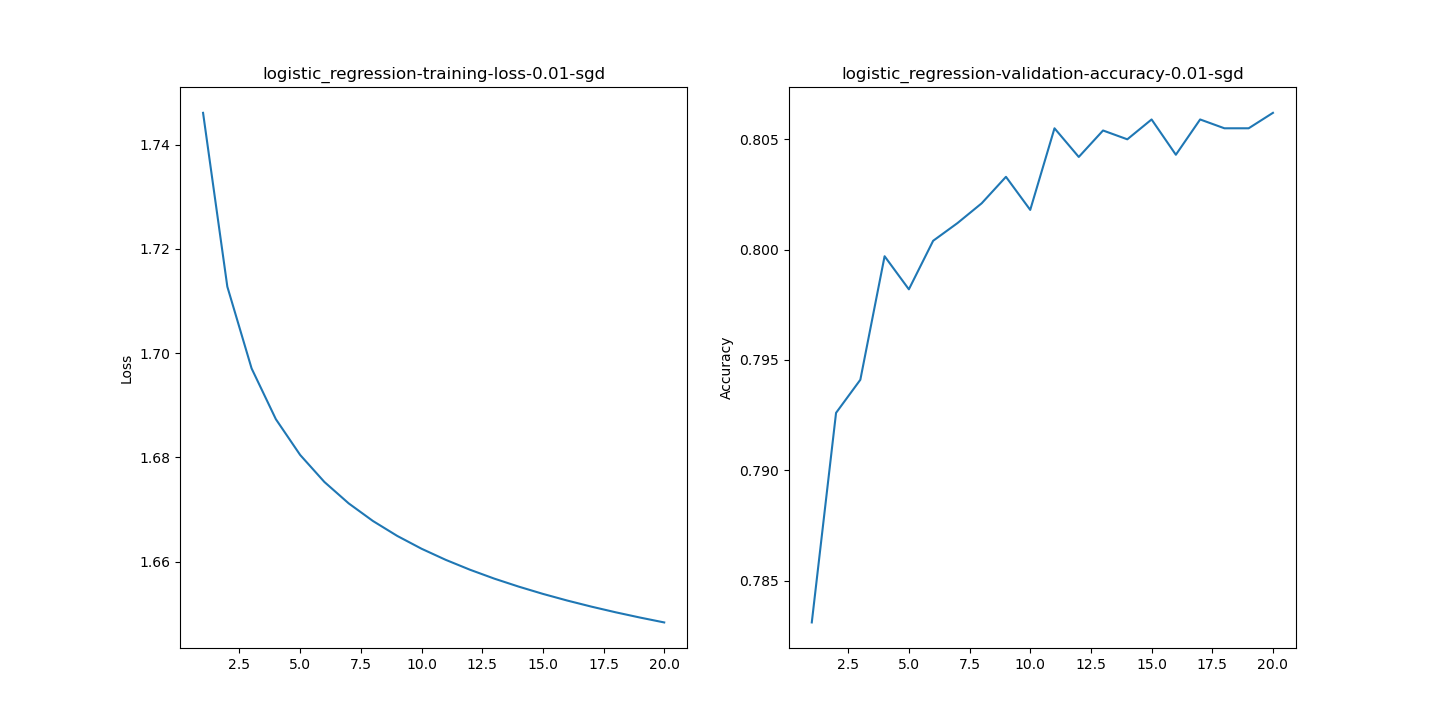
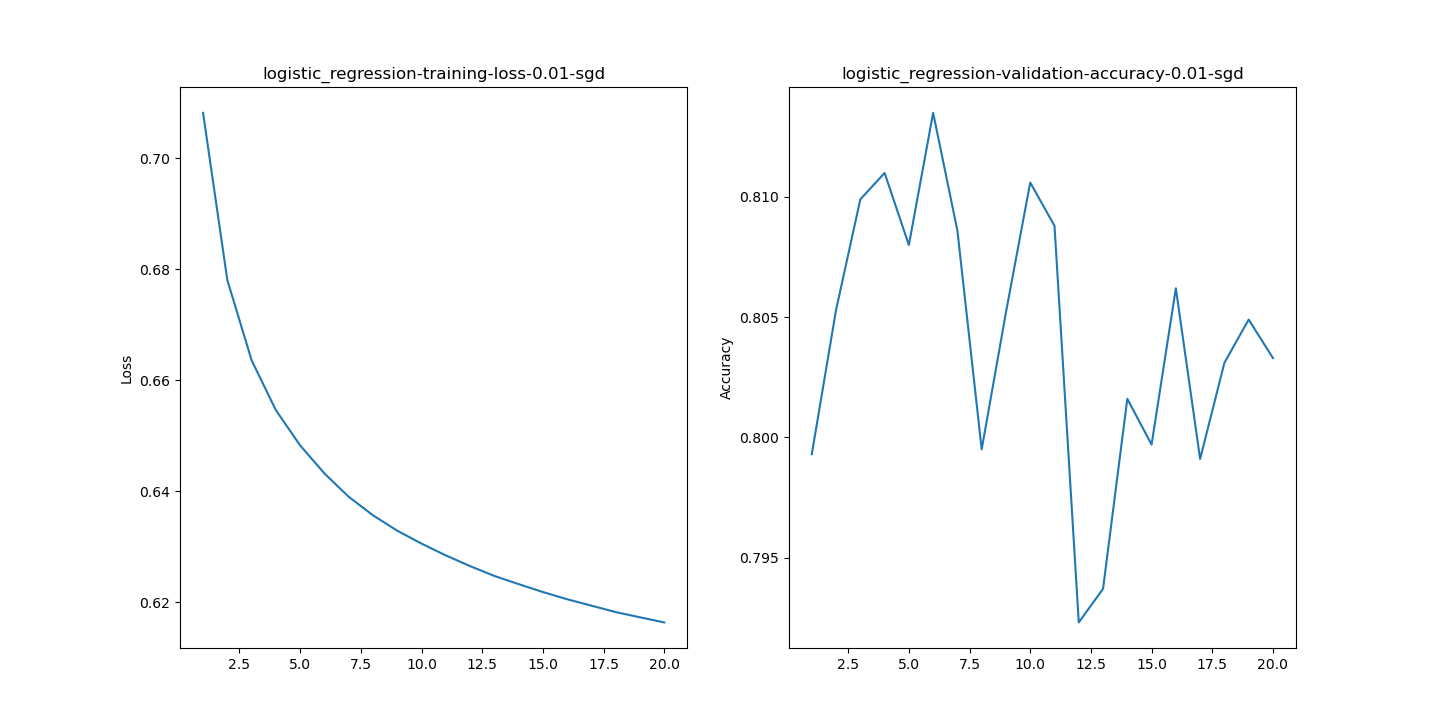
Question 2.1 correction

diff --git a/HW1/hw1-q2.py b/HW1/hw1-q2.py
@@ -28,7 +28,6 @@ class LogisticRegression(nn.Module):
         """
         super(LogisticRegression, self).__init__()
         self.layer = nn.Linear(n_features, n_classes)
-        self.activation = nn.Sigmoid()
 
     def forward(self, x, **kwargs):
         """
@@ -45,7 +44,6 @@ class LogisticRegression(nn.Module):
         backward pass.
         """
         x = self.layer(x)
-        x = self.activation(x)
         return x
 
 
